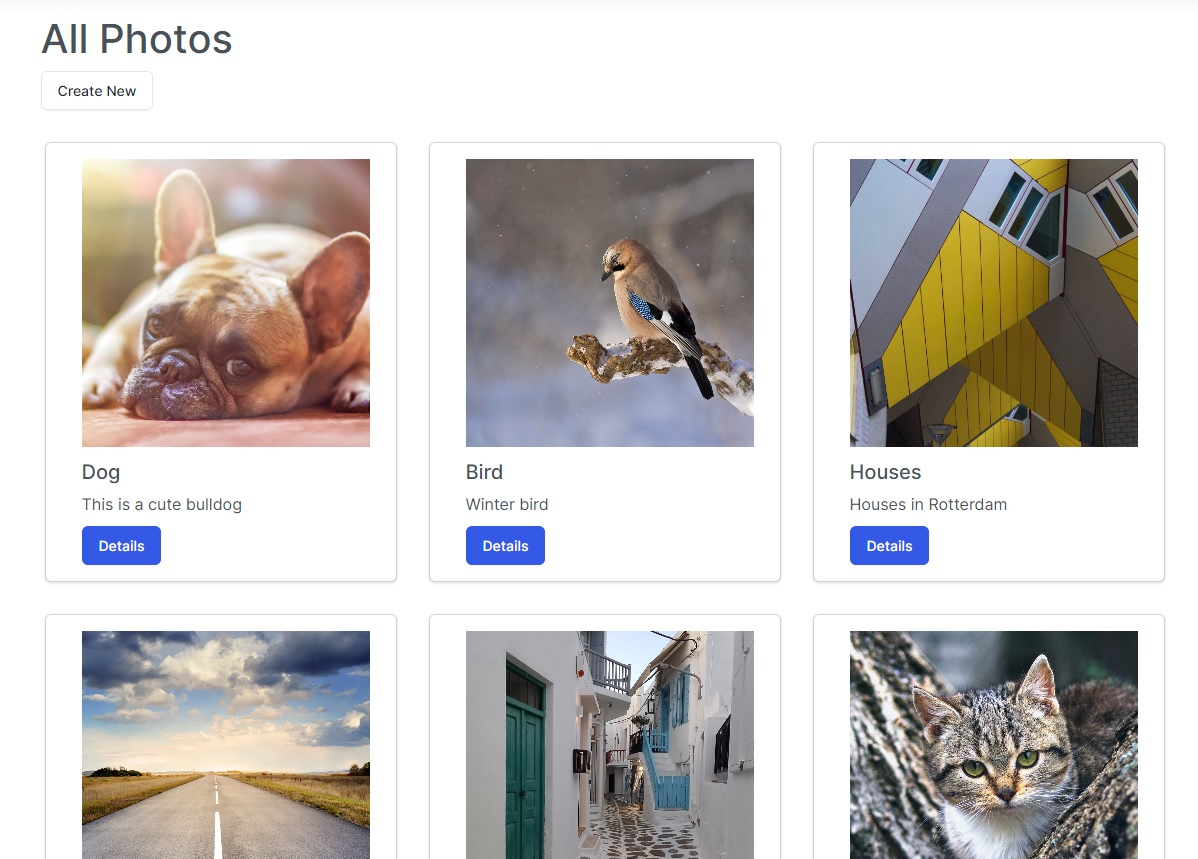
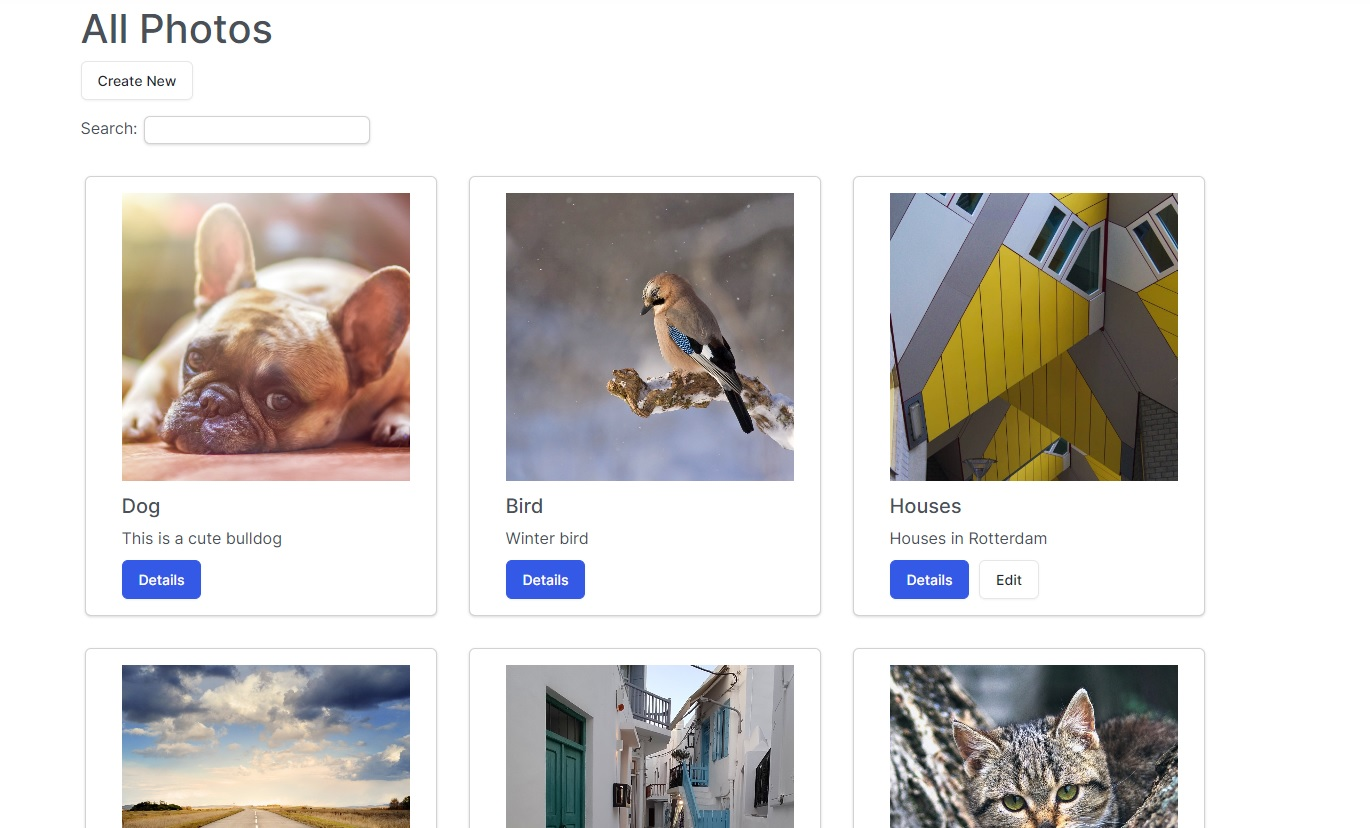
readme update

diff --git a/README.md b/README.md
@@ -21,6 +21,9 @@ I used FluentValidation to validate incoming models and AutoMapper to efficientl
 ### Your Photos
 ![View!](/ApplicationImages/YourPhotos.jpg)
 
+### Searching
+![View!](/ApplicationImages/Filter.jpg)
+
 ### Details
 ![View!](/ApplicationImages/Details.jpg)
 
